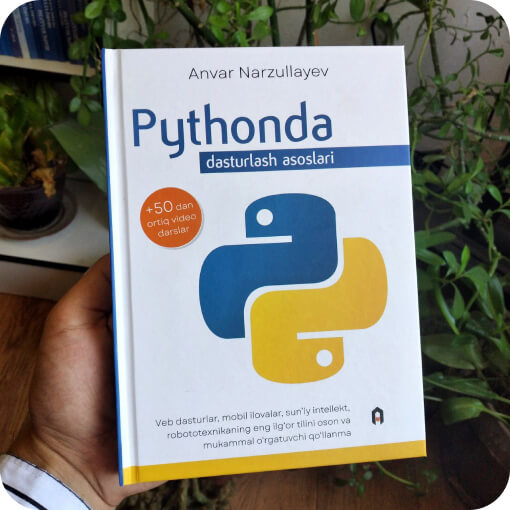
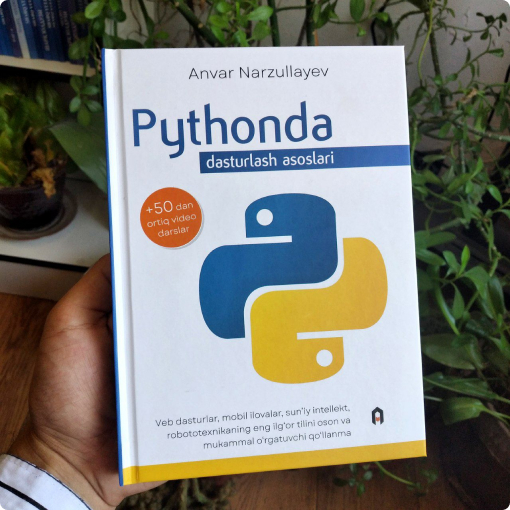
Correcting errors

diff --git a/index.html b/index.html
@@ -51,7 +51,7 @@
           <a class="main-link" href="#">Buyurtma berish</a>
         </div>
 
-        <img class="hero-img" src="img/python-book.jpg" alt="Qo'lda ushlab turilgan Pythonda dasturlash asoslari kitobi" width="510" height="510" srcset="img/python-book.jpg 1x, img/python-book@2x.jpg 2x">
+        <img class="hero-img" src="img/python-book.jpg" alt="Qo'lda ushlab turilgan Pythonda dasturlash asoslari kitobi" width="510" height="510">
       </div>
     </section>
 
